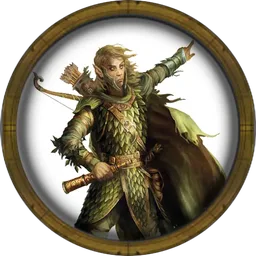
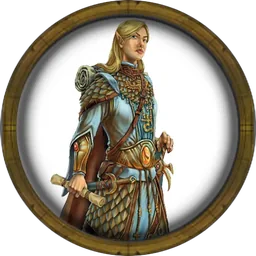
High Elf portraits from the Foundry tokens, with class portraits
- High Elf uses the elven envoy token instead of the scout stand-in.
- Swordmaster and Sword of Hoeth, the Saphery mages, and White Lion and Phoenix Guard get their own portraits.
- Player portraits now use the master or expert class art when it exists, otherwise the people's portrait.

Claude-Session: https://claude.ai/code/session_019whL74RvjPtUE6xPA7KhrC

diff --git a/public/js/core.js b/public/js/core.js
@@ -4,6 +4,8 @@
 let TOKEN_FILES={};
 fetch('tokens/index.json',{cache:'no-cache'}).then(r=>r.json()).then(d=>{ TOKEN_FILES=d; if(lastState) renderState(lastState); }).catch(()=>{});
 function tokenSrc(name){ const f=TOKEN_FILES[name]; return f?'tokens/'+f:null; }
+// A warrior's portrait: their master or expert class if it has its own art, otherwise their people.
+function playerToken(p){ const c=(p&&p.char)||{}; return tokenSrc(p.career+'/'+c.masterPath)||tokenSrc(p.career+'/'+c.expertPath)||tokenSrc(p.career); }
 
 // Rules tables come from the server so client and server always agree.
 fetch('api/game-data').then(r=>r.json()).then(g=>{

diff --git a/public/js/desktop.js b/public/js/desktop.js
@@ -193,7 +193,7 @@ function renderBattle(gs,players,me){
     const c=p.char,isMe=p.id===myId;
     const acted=hasActedThisRound(gs,p.id);
     const hp=Math.max(0,c.health/c.maxHealth*100);
-    const src=tokenSrc(p.career);
+    const src=playerToken(p);
     const tokCls=['tok',!c.alive?'fallen':acted?'acted':'',isMe?'mine':'',p.frame?'frame-'+p.frame:''].join(' ').trim();
     const badge=!c.alive?'<span class="tok-badge tb-f">Fallen</span>':acted?'<span class="tok-badge tb-a">Acted ✓</span>':'';
     const row=document.createElement('div'); row.className='token-row';

diff --git a/public/js/social.js b/public/js/social.js
@@ -112,7 +112,7 @@ async function makeRunImage(){
   const diff=['Standard','Grim','Doom'][gs.difficulty||0];
   g.fillStyle=tok('--ash'); g.font='28px "Alegreya", serif';
   g.fillText(`${gs.bossCount||0} boss${(gs.bossCount||0)===1?'':'es'} slain · ${diff}${gs.dailyKey?' · Daily Run '+gs.dailyKey:''}`,60,226);
-  const imgs=await Promise.all(party.map(p=>loadImg(tokenSrc(p.career))));
+  const imgs=await Promise.all(party.map(p=>loadImg(playerToken(p))));
   party.forEach((p,i)=>{
     const x=60+i*275, y=270;
     if(imgs[i]) g.drawImage(imgs[i],x,y,150,150);

diff --git a/public/js/mobile.js b/public/js/mobile.js
@@ -200,7 +200,7 @@ function mRenderGame(gs,players,me){
   {
     const c=char, pct=c.health/c.maxHealth*100, xp=xpProgress(c);
     const acted=hasActedThisRound(gs,me.id);
-    const tok=tokenSrc(me.career);
+    const tok=playerToken(me);
     const chips=[...(c.conditions||[]).map(cd=>`<span class="chip chip-bad">${cd}</span>`),...(c.activeBuffs||[]).map(b=>`<span class="chip chip-good">${b.name} ${b.duration}r</span>`)];
     const card=mEl('div','m-me'+(c.alive?'':' is-dead'),`
       <div class="m-me-head">
